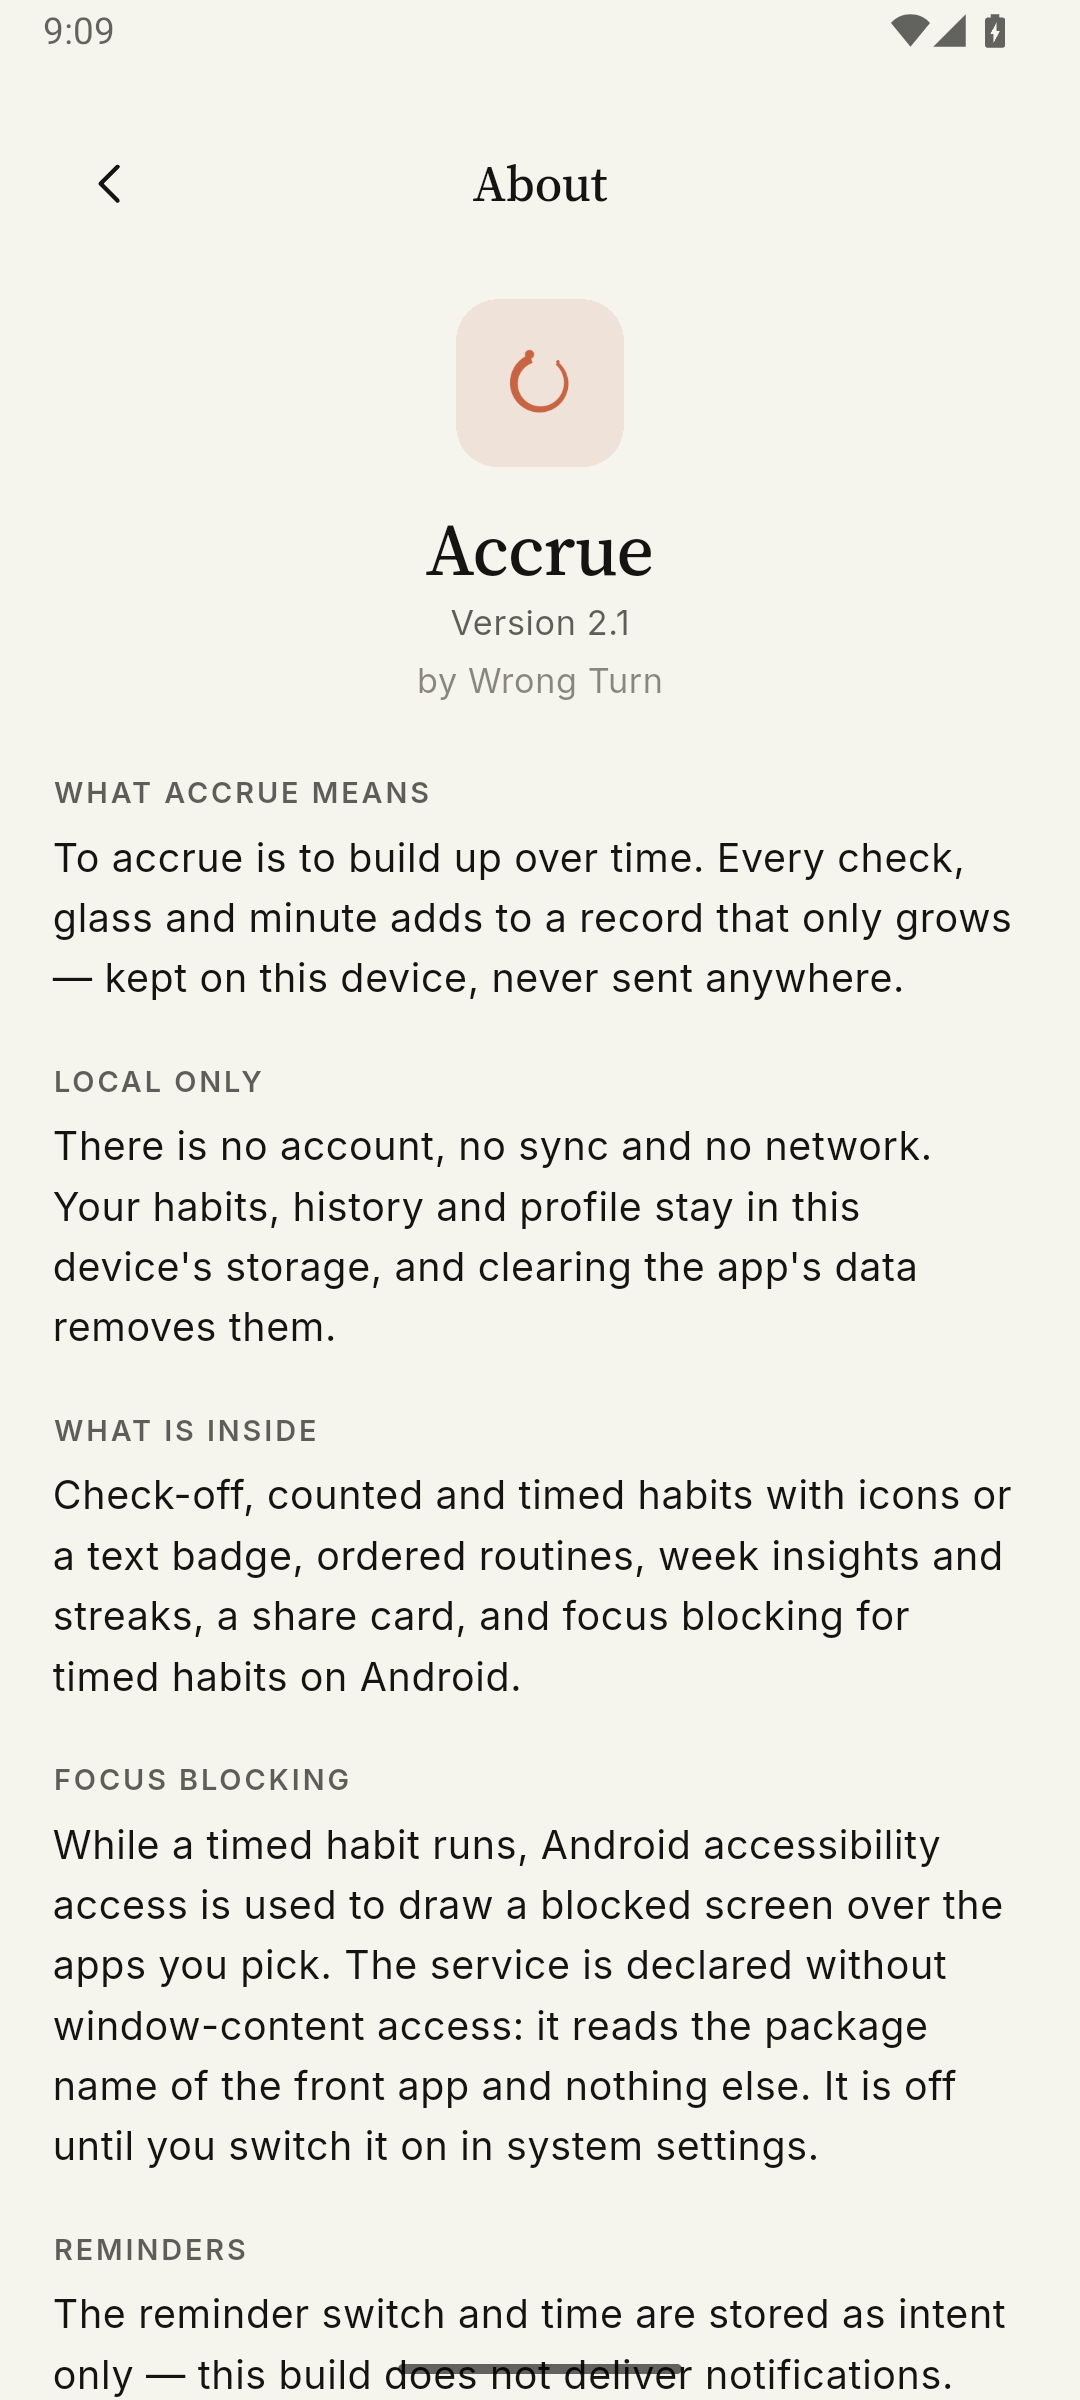
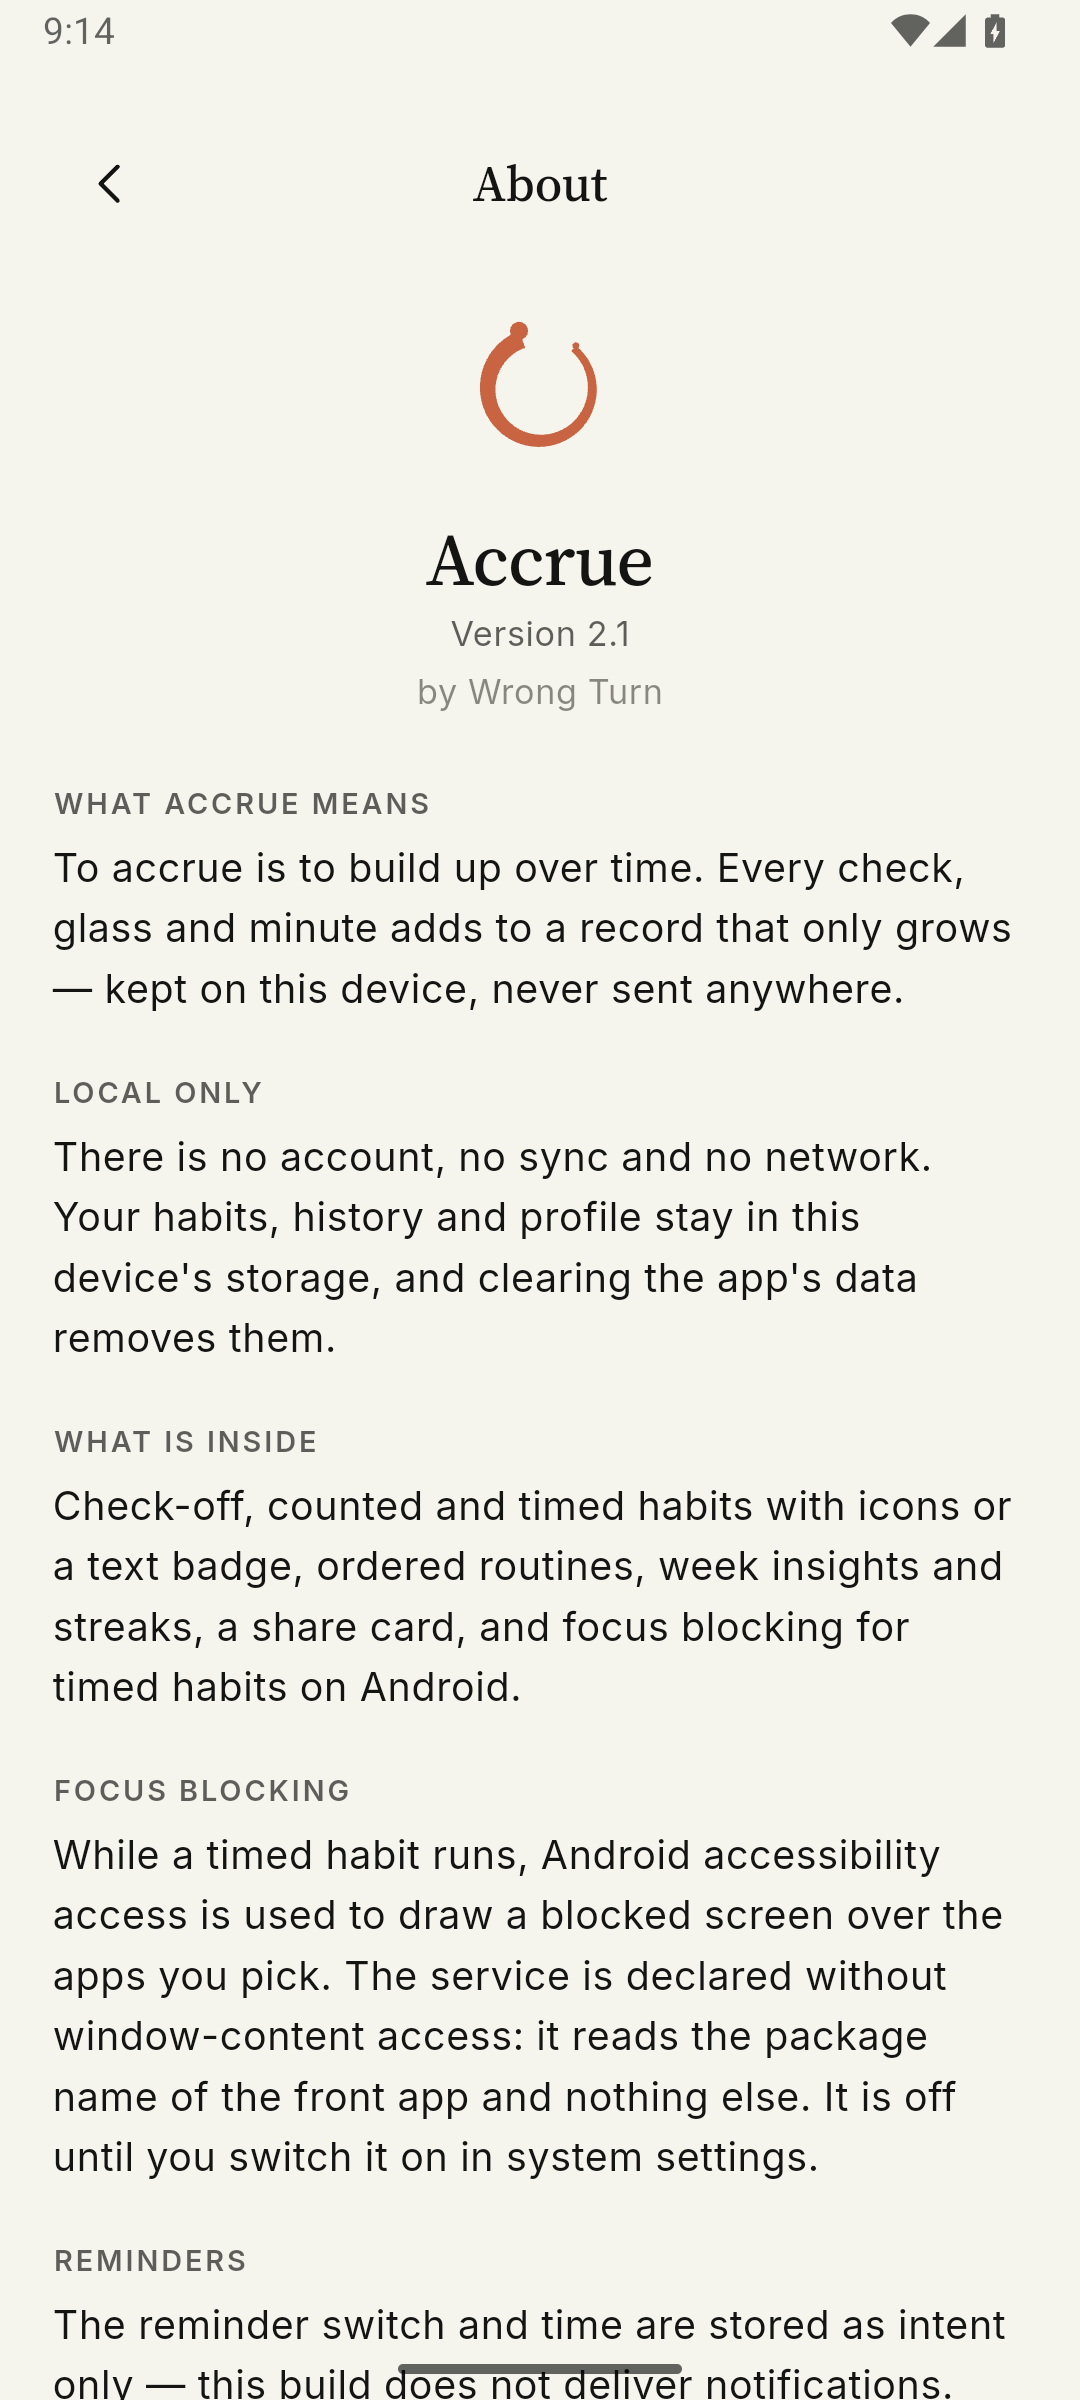
@ About: draw the enso mark as inline vector, no plate
The mark ships as the same 1024pt SVG geometry as the launcher icon and
inherits the theme accent, so About shows the icon alone with no
background. The raster asset is gone.

@

diff --git a/lib/widgets/brand_mark.dart b/lib/widgets/brand_mark.dart
@@ -1,0 +1,29 @@
+import 'package:flutter/material.dart';
+import 'package:flutter_svg/flutter_svg.dart';
+
+import '../theme/app_colors.dart';
+
+/// The Accrue enso mark: one colour, transparent ground, drawn from the same
+/// 1024pt geometry as the launcher icon.
+class BrandMark extends StatelessWidget {
+  const BrandMark({super.key, this.size = 40, this.color});
+
+  final double size;
+  final Color? color;
+
+  @override
+  Widget build(BuildContext context) {
+    final resolved = color ?? AppColors.of(context).accent;
+    return SvgPicture.string(
+      ensoSvg,
+      width: size,
+      height: size,
+      colorFilter: ColorFilter.mode(resolved, BlendMode.srcIn),
+    );
+  }
+}
+
+/// 1024 viewBox, filled with the widget's colour.
+const String ensoSvg =
+    '<svg viewBox="0 0 1024 1024" fill="#000">'
+    '<path d="M 717.7 266.9 L 725.7 273.6 L 733.6 280.6 L 741.2 287.8 L 748.5 295.3 L 755.6 303.0 L 762.5 311.0 L 769.1 319.1 L 775.4 327.5 L 781.5 336.1 L 787.3 345.0 L 792.8 354.0 L 798.0 363.1 L 802.9 372.5 L 807.5 382.0 L 811.7 391.7 L 815.7 401.5 L 819.4 411.4 L 822.7 421.4 L 825.7 431.6 L 828.3 441.9 L 830.6 452.2 L 832.6 462.7 L 834.3 473.1 L 835.6 483.7 L 836.5 494.3 L 837.1 504.9 L 837.4 515.5 L 837.3 526.2 L 836.9 536.9 L 836.1 547.5 L 834.9 558.1 L 833.4 568.7 L 831.6 579.2 L 829.4 589.7 L 826.9 600.1 L 824.1 610.4 L 820.9 620.6 L 817.3 630.7 L 813.5 640.7 L 809.3 650.6 L 804.8 660.4 L 799.9 670.0 L 794.8 679.4 L 789.3 688.7 L 783.5 697.8 L 777.5 706.7 L 771.1 715.4 L 764.5 723.9 L 757.6 732.1 L 750.4 740.2 L 742.9 748.0 L 735.2 755.6 L 727.3 762.9 L 719.1 770.0 L 710.6 776.8 L 702.0 783.3 L 693.1 789.5 L 684.0 795.5 L 674.8 801.1 L 665.3 806.5 L 655.7 811.5 L 645.9 816.2 L 635.9 820.7 L 625.8 824.7 L 615.6 828.5 L 605.2 831.9 L 594.8 835.0 L 584.2 837.7 L 573.5 840.1 L 562.8 842.1 L 552.0 843.8 L 541.1 845.1 L 530.2 846.1 L 519.3 846.7 L 508.3 847.0 L 497.4 846.9 L 486.4 846.4 L 475.5 845.6 L 464.5 844.4 L 453.7 842.9 L 442.8 841.0 L 432.0 838.8 L 421.3 836.2 L 410.7 833.2 L 400.2 829.9 L 389.8 826.3 L 379.5 822.3 L 369.3 818.0 L 359.3 813.3 L 349.4 808.3 L 339.7 803.0 L 330.2 797.4 L 320.8 791.5 L 311.7 785.2 L 302.7 778.7 L 294.0 771.8 L 285.4 764.7 L 277.2 757.3 L 269.1 749.6 L 261.3 741.7 L 253.8 733.5 L 246.5 725.1 L 239.5 716.4 L 232.8 707.5 L 226.4 698.3 L 220.3 689.0 L 214.5 679.5 L 209.0 669.7 L 203.8 659.8 L 199.0 649.7 L 194.4 639.5 L 190.2 629.1 L 186.4 618.6 L 182.9 607.9 L 179.7 597.2 L 176.9 586.3 L 174.5 575.3 L 172.4 564.3 L 170.7 553.2 L 169.3 542.0 L 168.3 530.8 L 167.7 519.5 L 167.4 508.2 L 167.5 497.0 L 168.0 485.7 L 168.9 474.4 L 170.1 463.2 L 171.7 452.0 L 173.6 440.8 L 175.9 429.8 L 178.6 418.8 L 181.6 407.8 L 185.0 397.0 L 188.8 386.3 L 192.9 375.7 L 197.3 365.3 L 202.1 355.0 L 207.2 344.8 L 212.7 334.8 L 218.5 325.0 L 224.6 315.4 L 231.0 306.0 L 237.8 296.8 L 244.8 287.8 L 252.1 279.0 L 259.8 270.5 L 267.6 262.3 L 275.8 254.2 L 284.2 246.5 L 292.9 239.0 L 301.9 231.9 L 311.0 225.0 L 320.4 218.4 L 330.0 212.1 L 339.8 206.1 L 349.8 200.5 L 360.0 195.2 L 370.4 190.2 L 380.9 185.5 L 391.6 181.2 L 427.2 279.0 L 419.5 281.7 L 412.0 284.6 L 404.5 287.9 L 397.1 291.3 L 389.9 295.0 L 382.7 299.0 L 375.7 303.1 L 368.8 307.5 L 362.1 312.2 L 355.5 317.0 L 349.1 322.1 L 342.8 327.4 L 336.7 332.9 L 330.8 338.6 L 325.1 344.5 L 319.6 350.5 L 314.2 356.8 L 309.1 363.2 L 304.2 369.8 L 299.5 376.6 L 295.0 383.5 L 290.7 390.6 L 286.7 397.8 L 282.9 405.2 L 279.3 412.6 L 276.0 420.2 L 273.0 427.9 L 270.1 435.7 L 267.6 443.6 L 265.3 451.6 L 263.2 459.7 L 261.5 467.8 L 260.0 476.0 L 258.7 484.3 L 257.7 492.5 L 257.0 500.9 L 256.6 509.2 L 256.5 517.6 L 256.6 525.9 L 257.0 534.3 L 257.6 542.7 L 258.6 551.0 L 259.8 559.3 L 261.3 567.6 L 263.0 575.8 L 265.1 584.0 L 267.4 592.1 L 269.9 600.1 L 272.8 608.1 L 275.8 615.9 L 279.2 623.7 L 282.8 631.3 L 286.6 638.8 L 290.7 646.3 L 295.1 653.5 L 299.7 660.7 L 304.5 667.7 L 309.5 674.5 L 314.8 681.2 L 320.3 687.7 L 326.0 694.0 L 331.9 700.1 L 338.0 706.0 L 344.4 711.8 L 350.9 717.3 L 357.5 722.6 L 364.4 727.7 L 371.4 732.6 L 378.6 737.3 L 386.0 741.7 L 393.5 745.9 L 401.1 749.8 L 408.9 753.5 L 416.8 756.9 L 424.7 760.1 L 432.9 763.0 L 441.1 765.7 L 449.3 768.0 L 457.7 770.2 L 466.2 772.0 L 474.7 773.5 L 483.2 774.8 L 491.8 775.8 L 500.4 776.5 L 509.1 777.0 L 517.8 777.1 L 526.5 777.0 L 535.1 776.6 L 543.8 775.9 L 552.5 774.9 L 561.1 773.6 L 569.7 772.1 L 578.2 770.3 L 586.7 768.1 L 595.1 765.8 L 603.4 763.1 L 611.6 760.1 L 619.8 756.9 L 627.8 753.5 L 635.7 749.7 L 643.6 745.7 L 651.2 741.5 L 658.8 736.9 L 666.2 732.2 L 673.4 727.2 L 680.5 721.9 L 687.4 716.5 L 694.1 710.8 L 700.7 704.8 L 707.0 698.7 L 713.2 692.4 L 719.1 685.8 L 724.9 679.1 L 730.4 672.1 L 735.7 665.0 L 740.7 657.7 L 745.5 650.3 L 750.1 642.6 L 754.4 634.9 L 758.5 627.0 L 762.3 618.9 L 765.9 610.7 L 769.2 602.4 L 772.2 594.0 L 774.9 585.5 L 777.4 576.9 L 779.5 568.3 L 781.4 559.5 L 783.1 550.7 L 784.4 541.8 L 785.4 532.9 L 786.1 524.0 L 786.6 515.0 L 786.7 506.0 L 786.6 497.0 L 786.2 488.0 L 785.4 479.0 L 784.4 470.1 L 783.1 461.1 L 781.5 452.3 L 779.6 443.4 L 777.4 434.7 L 774.9 426.0 L 772.1 417.3 L 769.1 408.8 L 765.7 400.4 L 762.1 392.0 L 758.2 383.8 L 754.1 375.7 L 749.7 367.8 L 745.0 360.0 L 740.1 352.3 L 734.9 344.8 L 729.4 337.5 L 723.8 330.3 L 717.8 323.4 L 711.7 316.6 L 705.3 310.0 L 698.8 303.7 L 692.0 297.5 Z"/><circle cx="717.7" cy="266.9" r="20.0"/><circle cx="391.6" cy="181.2" r="52.0"/></svg>';

diff --git a/lib/screens/about_screen.dart b/lib/screens/about_screen.dart
@@ -3,6 +3,7 @@ import 'package:flutter/material.dart';
 import '../theme/app_colors.dart';
 import '../theme/app_type.dart';
 import '../theme/metrics.dart';
+import '../widgets/brand_mark.dart';
 import '../widgets/ui.dart';
 
 /// Shown in the profile and on the About page.
@@ -46,21 +47,10 @@ class AboutScreen extends StatelessWidget {
             ),
             const SizedBox(height: 18),
             Center(
-              child: Container(
-                width: 64,
-                height: 64,
-                alignment: Alignment.center,
-                decoration: BoxDecoration(
-                  color: colors.accentSoft,
-                  borderRadius: BorderRadius.circular(Metrics.rLg),
-                ),
-                child: Image.asset(
-                  'assets/branding/enso.png',
-                  width: 34,
-                  height: 34,
-                  filterQuality: FilterQuality.high,
-                  semanticLabel: appName,
-                ),
+              child: Semantics(
+                label: appName,
+                image: true,
+                child: const BrandMark(size: 68),
               ),
             ),
             const SizedBox(height: 14),
